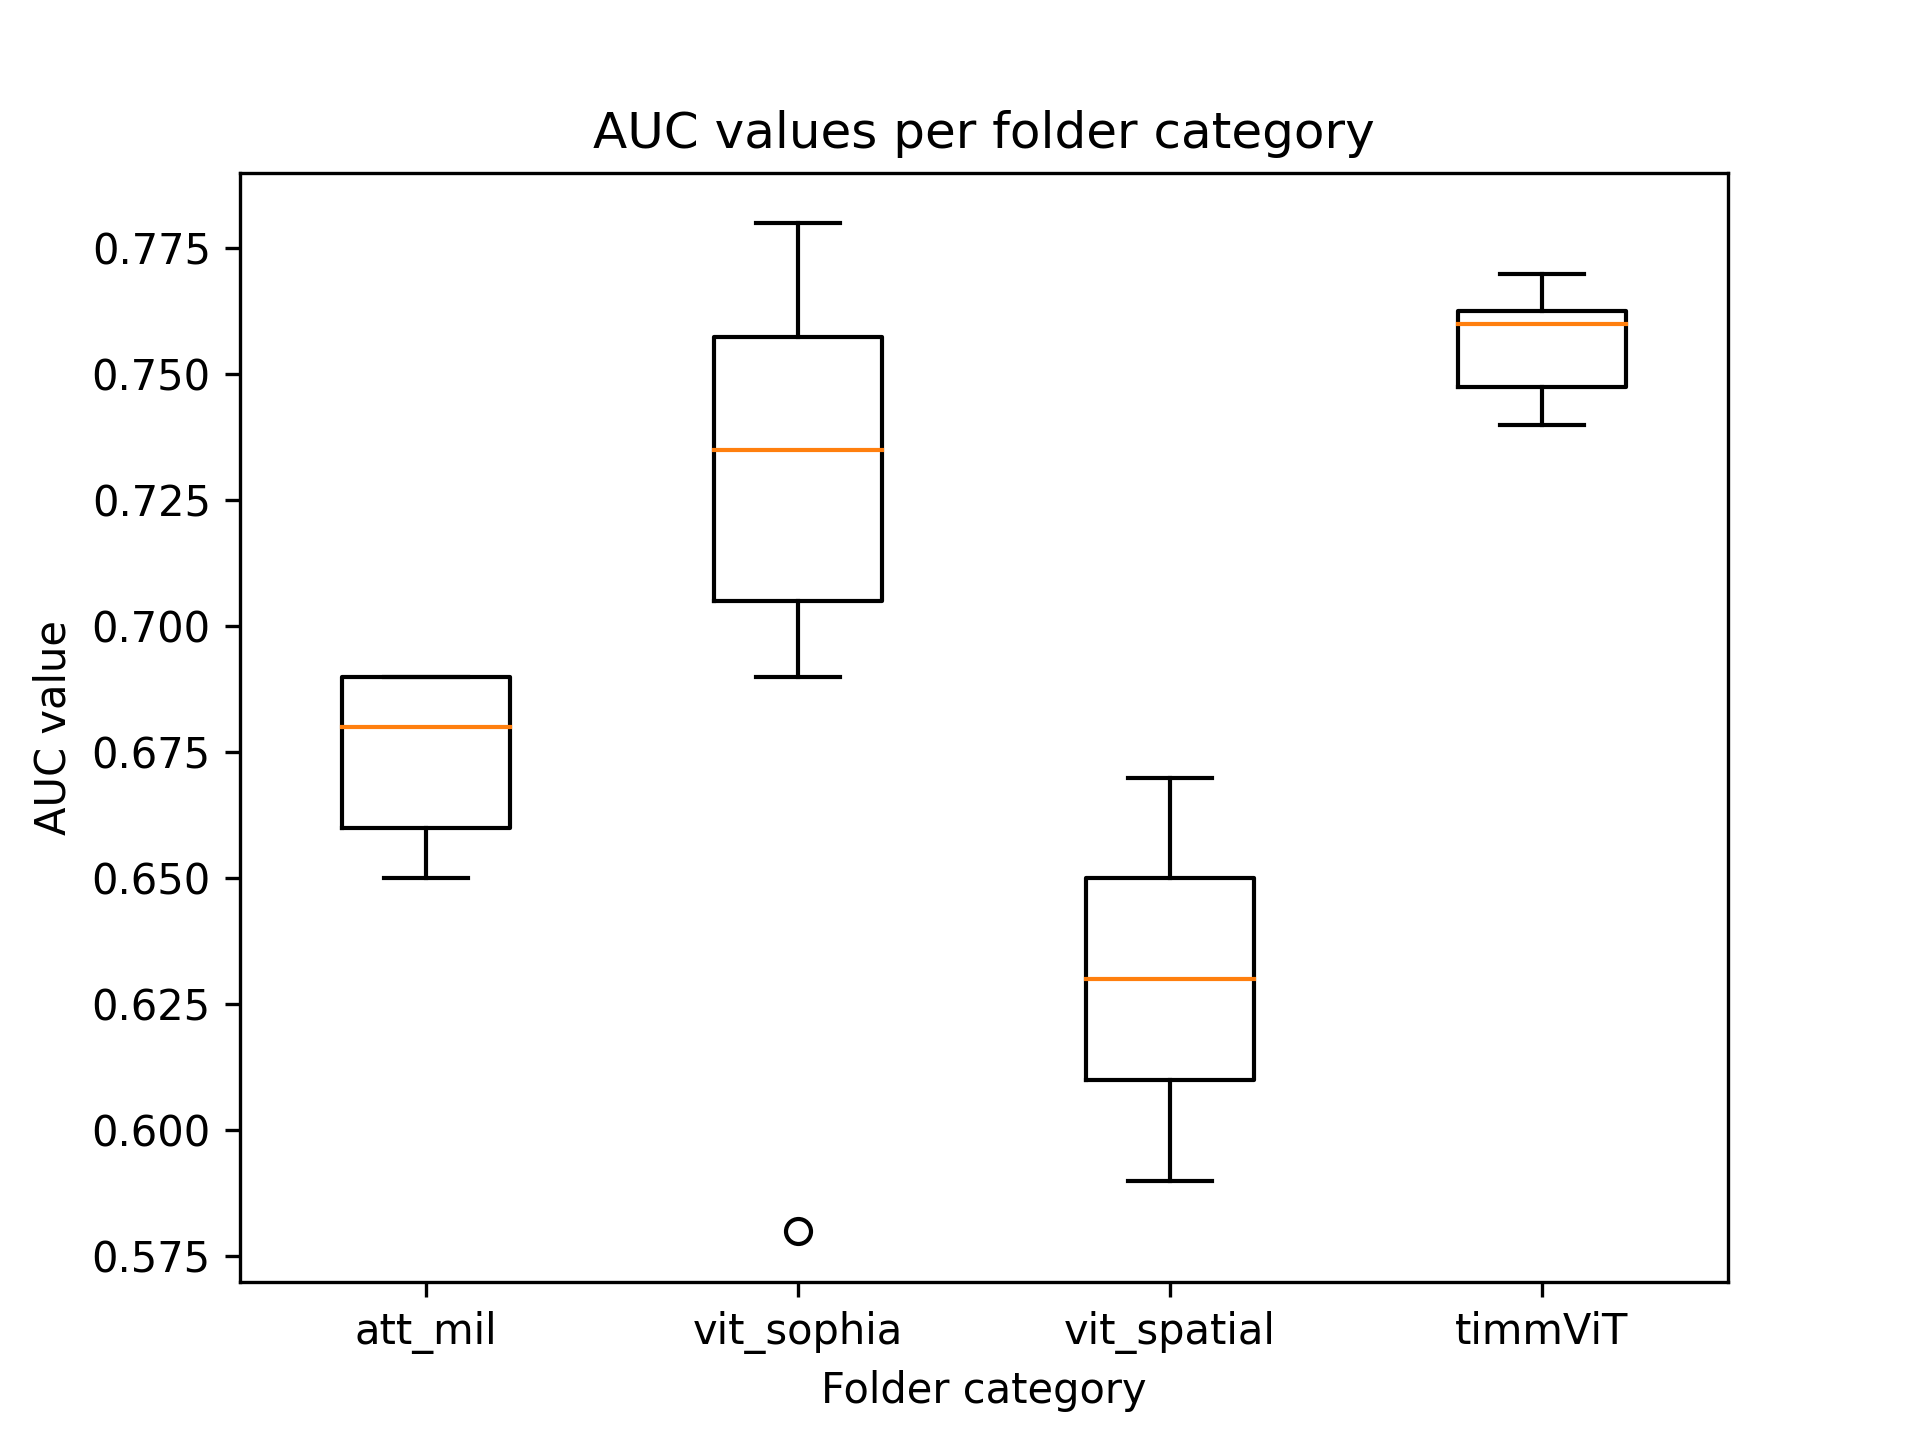
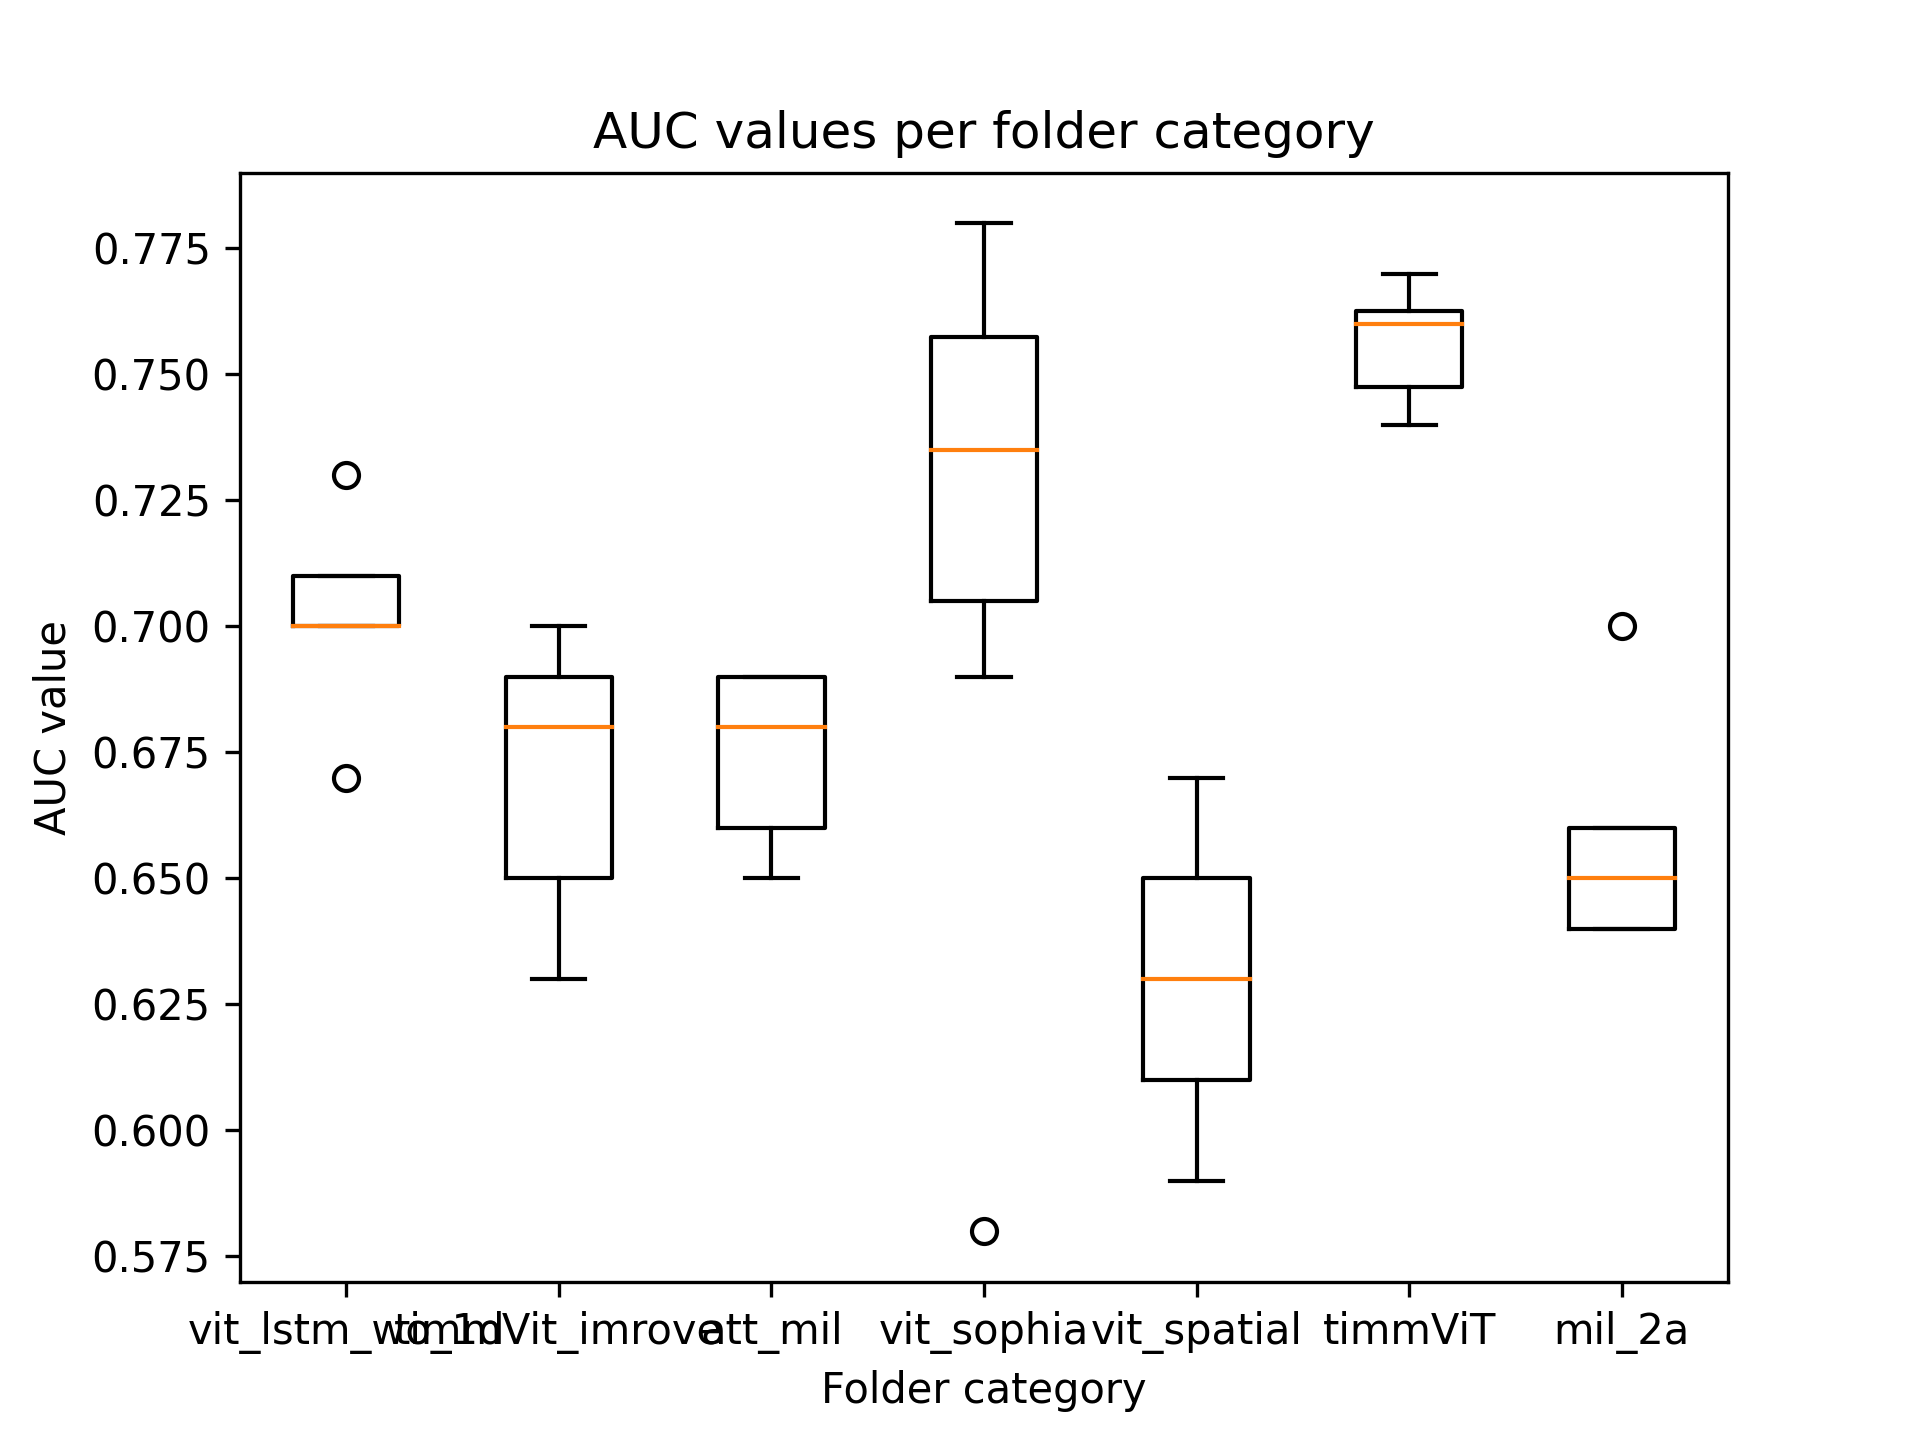
upload all exp

diff --git a/marugoto/mil/mil_2a.py b/marugoto/mil/mil_2a.py
@@ -1,0 +1,83 @@
+import torch
+from typing import Optional
+
+import torch
+from torch import nn
+__all__ = ["MILModel", "Attention"]
+
+def Attention(n_in: int, n_latent: Optional[int] = None) -> nn.Module:
+    """A network calculating an embedding's importance weight."""
+    n_latent = n_latent or (n_in + 1) // 2
+
+    return nn.Sequential(nn.Linear(n_in, n_latent), nn.Tanh(), nn.Linear(n_latent, 1))
+
+class MILModel(nn.Module):
+    def __init__(
+        self,
+        n_feats: int,
+        n_out: int,
+        encoder: Optional[nn.Module] = None,
+        attention: Optional[nn.Module] = None,
+        attention2: Optional[nn.Module] = None,  # New attention layer
+        head: Optional[nn.Module] = None,
+    ) -> None:
+        super().__init__()
+        self.encoder = encoder or nn.Sequential(nn.Linear(n_feats, 256), nn.ReLU())
+        self.attention = attention or Attention(256)
+        self.attention2 = attention2 or Attention2(256)  # New attention layer
+        self.head = head or nn.Sequential(
+            nn.Flatten(), nn.BatchNorm1d(256), nn.Dropout(), nn.Linear(256, n_out)
+        )
+
+    def forward(self, bags, lens):
+        embeddings = self.encoder(bags)
+        masked_attention_scores = self._masked_attention_scores(embeddings, lens)
+
+        # Apply the second attention layer
+        masked_attention_scores2 = self._masked_attention_scores2(
+            embeddings, masked_attention_scores, lens
+        )
+        weighted_embedding_sums = (masked_attention_scores2 * embeddings).sum(-2)
+
+        scores = self.head(weighted_embedding_sums)
+        return scores
+    def _masked_attention_scores(self, embeddings, lens):
+        """Calculates attention scores for all bags.
+
+        Returns:
+            A tensor containingtorch.concat([torch.rand(64, 256), torch.rand(64, 23)], -1)
+             *  The attention score of instance i of bag j if i < len[j]
+             *  0 otherwise
+        """
+        bs, bag_size = embeddings.shape[0], embeddings.shape[1]
+        attention_scores = self.attention(embeddings)
+
+        # a tensor containing a row [0, ..., bag_size-1] for each batch instance
+        idx = torch.arange(bag_size).repeat(bs, 1).to(attention_scores.device)
+
+        # False for every instance of bag i with index(instance) >= lens[i]
+        attention_mask = (idx < lens.unsqueeze(-1)).unsqueeze(-1)
+
+        masked_attention = torch.where(
+            attention_mask, attention_scores, torch.full_like(attention_scores, -1e10)
+        )
+        return torch.softmax(masked_attention, dim=1)
+    # Add a new function to compute the masked attention scores for the second attention layer
+    def _masked_attention_scores2(self, embeddings, masked_attention_scores, lens):
+        bs, bag_size = embeddings.shape[0], embeddings.shape[1]
+        attention_scores2 = self.attention2(embeddings)
+
+        idx = torch.arange(bag_size).repeat(bs, 1).to(attention_scores2.device)
+        attention_mask = (idx < lens.unsqueeze(-1)).unsqueeze(-1)
+
+        masked_attention2 = torch.where(
+            attention_mask, attention_scores2, torch.full_like(attention_scores2, -1e10)
+        )
+        return torch.softmax(masked_attention2 * masked_attention_scores, dim=1)  # Combine the two attention scores
+
+
+def Attention2(n_in: int, n_latent: Optional[int] = None) -> nn.Module:
+    n_latent = n_latent or (n_in + 1) // 2
+    return nn.Sequential(nn.Linear(n_in, n_latent), nn.Tanh(), nn.Linear(n_latent, 1))
+
+

diff --git a/marugoto/mil/timmViT_wo_1d.py b/marugoto/mil/timmViT_wo_1d.py
@@ -1,6 +1,6 @@
 import torch
 import torch.nn as nn
-import timm
+from torch.nn import TransformerEncoder, TransformerEncoderLayer
 class Attention(nn.Module):
     def __init__(self, input_dim, attention_dim):
         super(Attention, self).__init__()
@@ -17,25 +17,10 @@ class Attention(nn.Module):
         attention_weights = self.attention_layer(x)
         attention_weights = torch.softmax(attention_weights, dim=1)
         return attention_weights
-import torch
-import torch.nn as nn
-from torch.nn import TransformerEncoder, TransformerEncoderLayer
-
-import torch
-import torch.nn as nn
-from torch.nn import TransformerEncoder, TransformerEncoderLayer
-
 class MILModel(nn.Module):
-    def __init__(self, n_classes, input_dim=1024, attention_dim=64, d_model=512, nhead=8, num_layers=6):
+    def __init__(self, n_classes, input_dim=512, attention_dim=64, d_model=512, nhead=8, num_layers=6):
         super(MILModel, self).__init__()
 
-        # 1D CNN
-        self.conv1 = nn.Conv1d(1, 64, kernel_size=5, stride=1, padding=2)
-        self.relu1 = nn.ReLU()
-        self.pool1 = nn.MaxPool1d(kernel_size=2, stride=2, padding=0)
-
-        # Linear layer to adapt input dimensions
-        self.linear = nn.Linear(64 * input_dim, d_model)
 
         # Transformer Encoder
         encoder_layers = TransformerEncoderLayer(d_model, nhead)
@@ -53,19 +38,6 @@ class MILModel(nn.Module):
     def forward(self, x, register_hook=False):
         batch_size, seq_length, input_dim = x.size()
 
-        # 1D CNN
-        x = x.view(batch_size * seq_length, 1, input_dim)
-        x = self.conv1(x)
-        x = self.relu1(x)
-        x = self.pool1(x)
-        x = x.view(batch_size, seq_length, -1)
-
-        # Calculate the size of the feature dimension after the 1D CNN layers
-        _, _, feature_dim = x.size()
-
-        # Linear layer
-        x = x.view(batch_size, seq_length, -1)
-        x = self.linear(x)
 
         # Transformer Encoder
         x = x.transpose(0, 1)  # Transpose for Transformer: (seq_length, batch_size, input_dim)
@@ -80,4 +52,3 @@ class MILModel(nn.Module):
 
         x = self.classifier(x)
         return x
-

diff --git a/marugoto/mil/_mil.py b/marugoto/mil/_mil.py
@@ -4,9 +4,11 @@ from pathlib import Path
 import os
 #from .model import MILModel
 #from .bilstm import MILModel
-#from .timmViT import MILModel
+from .timmViT import MILModel
+#from .timmViT_wo_1d import MILModel
+#from .mil_2a import MILModel
 #from .vit_spatial import MILModel
-from .timmViT_improve import MILModel
+#from .timmViT_improve import MILModel
 import torch
 import functools
 from torch import nn
@@ -34,7 +36,7 @@ def train(
         targets: Tuple[SKLearnEncoder, np.ndarray],
         add_features: Iterable[Tuple[SKLearnEncoder, Sequence[Any]]] = [],
         valid_idxs: np.ndarray,
-        n_epoch: int = 200,  # 8
+        n_epoch: int = 60,  # 8
         patience: int = 16,
         path: Optional[Path] = None,
 ) -> Learner:
@@ -73,7 +75,7 @@ def train(
     # for binary classification num_classes=2 for same output dim as normal MILModel
     #model = ViT(num_classes=2)  # Transformer(num_classes=2)
     #model = MILModel(batch[0].shape[-1], batch[-1].shape[-1])
-    os.environ['CUDA_VISIBLE_DEVICES'] = '1'
+    #os.environ['CUDA_VISIBLE_DEVICES'] = '3'
     model = MILModel(n_classes=2)
     model.to(torch.device('cuda' if torch.cuda.is_available() else 'cpu'))  #
 

diff --git a/marugoto/mil/helpers.py b/marugoto/mil/helpers.py
@@ -136,6 +136,7 @@ def train_categorical_model_(
     learn.cat_labels, learn.cont_labels = cat_labels, cont_labels
 
     learn.export()
+    learn.export(fname='export_copy.pkl')
 
     patient_preds, patient_targs = learn.get_preds(act=nn.Softmax(dim=1))
 
